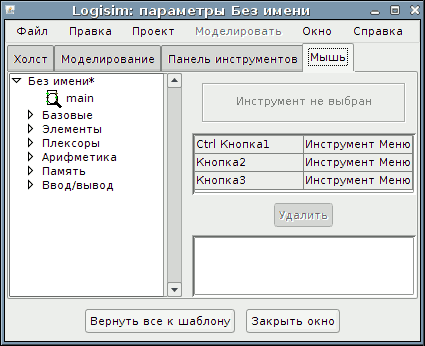
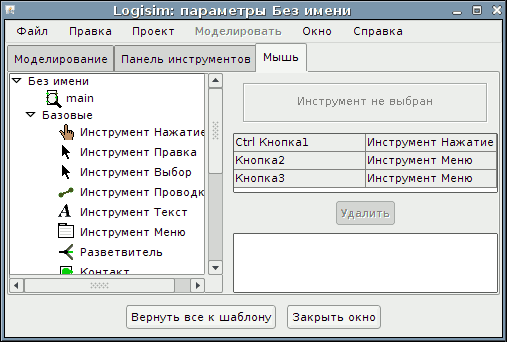
Ru doc: updated pages and screen shots for new preferences dialogs. Two old screen shots are deleted from En version too.

Changed region(s): [[0.0, 0.0, 1.0, 0.9942]]

diff --git a/doc/ru/html/guide/prefs/layout.html b/doc/ru/html/guide/prefs/layout.html
@@ -1,0 +1,37 @@
+<html>
+<head>
+    <meta http-equiv="content-type" content="text/html; charset=UTF-8">
+	<title>Вкладка Чертёж</title>
+</head>
+<body bgcolor="FFFFFF">
+
+<h1>Вкладка Чертёж</h1>
+
+<center><img src="../../../img-guide/prefs-layout.png"></center>
+
+<p>На этой вкладке находятся настройки, влияющие на поведение редактора чертежа схемы.</p>
+<ul>
+
+<li><p><b>Вид для печати:</b> определяет, показывать ли схемы на экране так же, как они выводятся через принтер. Как правило этот пункт отключен, и Logisim показывает схемы на экране с отображением текущего состояния схемы и выводит некоторые подсказки связанные с интерфейсом компонентов (самое заметное - он отрисовывает ножки элементов ИЛИ чтобы показать, где они должны присоединяться). А вид для печати не показывает состояние и эти подсказки по интерфейсу.</p></li> 
+ 
+<li><p><b>Показывать ореол:</b> определяет, нужно ли рисовать голубой овал вокруг компонента или инструмента, атрибуты которого в данный момент отображаются в таблице атрибутов.</p></li> 
+ 
+<li><p><b>Показывать подсказки для компонентов:</b> указывает, следует ли отображать "подсказки", которые будут появляться на время при наведении указателя мыши на компоненты, поддерживающие их. Например, если вы подержите указатель над контактом компонента подсхемы, то отобразится метка соответствующего контакта внутри подсхемы. Наведение курсора на один из концов разветвителя скажет вам, каким битам соответствует этот конец. Кроме того, все компоненты библиотек Плексоры, Арифметика и Память предоставляют информацию о своих входах и выходах через подсказки.</p></li> 
+
+<li><p><b>Сохранять соединения при перемещении:</b> указывает, должен ли Logisim добавлять новые провода, когда компоненты перемещены, чтобы сохранять их соединения. По умолчанию он включен - хотя он может быть временно отключен нажатием клавиши Shift при перемещении компонентов. Если этот флажок отключен, то по умолчанию при перемещении провода не будут добавляться - но вы можете включить это временно нажатием клавиши Shift при перемещении.</p></li>
+
+
+<li><p><b>Показывать призраки во время добавления:</b> когда включено, и когда выбран инструмент для добавления нового компонента, при движении мыши по холсту отрисовывается светло-серый контур компонента. Например, если вы выбираете инструмент Элемент И, и двигаете мышь по окну (без нажатия кнопки мыши), то серый контур элемента И отрисовывается там, где элемент И появится после нажатия мыши.</p></li>
+
+<li><p><b>После добавления компонента:</b> по умолчанию, после добавления каждого компонента, Logisim переключается на Инструмент Правка, позволяющий перемещать компоненты и добавлять провода. Этот выпадающий список позволяет вам изменить это поведение так, чтобы Logisim оставался на том же инструменте для добавления ещё одного такого же компонента, пока вы сами не выберите Инструмент Правка. (Это было поведение Logisim по умолчанию до Logisim 2.3.0. Хотя такое поведение более интуитивно, оно требует больше перемещений мыши для переключения между инструментами.)</p></li>
+
+<li><p><strong>Первое основание при взаимодействии с проводом:</strong> настраивает, как отображаются значения, когда на проводе щёлкнули Инструментом Нажатие. Щелчок на проводе временно отображает значение, пока пользователь не щёлкнет в другом месте схемы.</p></li>
+
+<li><p><strong>Второе основание при нажатии на провод:</strong> настраивает вторую часть отображаемого значения.</p></li>
+
+</ul>
+
+<p><strong>Далее:</strong> <em><a href="exp.html">Вкладка Экспериментальные</a></em>.</p>
+
+</body>
+</html>

diff --git a/doc/ru/html/guide/subcirc/using.html b/doc/ru/html/guide/subcirc/using.html
@@ -16,7 +16,7 @@
 <center><img src="../../../img-guide/subcirc-4-done.png"></center>
 <p>Наша схема для мультиплексора 4-в-1 использует три копии мультиплексора 2-в-1, каждая из которых отрисована в виде коробки с контактами вдоль краёв. Контакты на этой коробке соответствую входным и выходным контактам в схеме 2:1 MUX. Два контакта на западном крае коробки соответствуют двум контактам, направленным на восток в схеме 2:1 MUX; контакт на восточной стороне коробки соответствует контакту схемы 2:1 MUX, направленному на запад (который является выходным контактом); а контакт на южной стороне коробки соответствует контакту схемы 2:1 MUX, направленному на север. Порядок контактов на западной стороне коробки соответствует их порядку сверху вниз на чертеже подсхемы. (Если бы было несколько контактов на северной или южной стороне коробки, то их порядок соответствовал бы порядку слева направо в подсхеме.)</p>
 
-<p>Если контакты на чертеже подсхемы имеют метки, связанные с ними, то Logisim будет показывать эти метки в <strong>подсказке</strong> (то есть во временном текстовом поле), когда пользователь наведёт мышь на соответствующее место компонента подсхемы. (Если вы находите эти подсказки раздражающими, вы можете отключить их через <a href="../opts/canvas.html">вкладку Холст окна Параметры Проекта</a>.)</p>
+<p>Если контакты на чертеже подсхемы имеют метки, связанные с ними, то Logisim будет показывать эти метки в <strong>подсказке</strong> (то есть во временном текстовом поле), когда пользователь наведёт мышь на соответствующее место компонента подсхемы. (Если вы находите эти подсказки раздражающими, вы можете отключить их через <a href="../prefs/layout.html">вкладку Чертёж окна Настройки</a>.)</p>
 <center><img src="../../../img-guide/subcirc-4-tip.png"></center>
 <p>Некоторые другие компоненты тоже будут показывать эти подсказки: для некоторых контактов встроенных <a href="../../libs/mem/flipflops.html">триггеров</a>, например, проведение мышью над ними объясняет, что делает этот контакт.</p>
 

diff --git a/doc/ru/html/guide/prefs/window.html b/doc/ru/html/guide/prefs/window.html
@@ -1,0 +1,28 @@
+<html>
+<head>
+    <meta http-equiv="content-type" content="text/html; charset=UTF-8">
+	<title>Вкладка Окно</title>
+</head>
+<body bgcolor="FFFFFF">
+
+<h1>Вкладка Окно</h1>
+
+<center><img src="../../../img-guide/prefs-window.png"></center>
+
+<p>На этой вкладке находятся настройки, влияющие на внешний вид главного окна Logisim.</p>
+<ul>
+
+<li><p><b>Показать скорость тактов:</b> если выбрано, то когда такты включены, Logisim отображает скорость, с которой он выполняет такты. Скорость тактов измеряется как средняя за предыдущую 1000 тактов. (Выключение тактов или изменение максимальной тактовой частоты очистит эту историю.)</p>
+
+<p>Эта фактическая скорость тактов может быть намного меньше, чем вы бранная тактовая частота, потому что Logisim не может моделировать большие схем с очень большой скоростью. Например, максимальная скорость Logisim для достаточно большой схемы может быть 16 Гц; вы можете выбрать более высокую тактовую частоту, но фактическая скорость не будет превышать 16 Гц.</p></li>
+
+<li><p><b>Показать панель инструментов проекта:</b> когда выбрано, выше панели проводника доступна маленькая панель инструментов. Эта панель инструментов предоставляет пользователю простой доступ к добавлению, переименованию, переупорядочиванию и удалению схем из проекта, а также поддерживает переключение между редактированием чертежа схемы и её внешнего вида.</p></dd>
+
+</li><li><p><b>Расположение панели инструментов:</b> это выпадающее меню настраивает расположение панели инструментов в пределах окна. Панель инструментов может быть расположена вдоль любой из границ окна, обозначенных как север, юг, восток и запад. Она также может быть скрыта или расположена "посередине вниз" - то есть слева от холста, но справа от панели проводника и таблицы атрибутов.</p></li>
+
+</ul>
+
+<p><strong>Далее:</strong> <em><a href="layout.html">Вкладка Чертёж</a></em>.</p>
+
+</body>
+</html>

diff --git a/doc/ru/html/guide/menu/file.html b/doc/ru/html/guide/menu/file.html
@@ -15,6 +15,9 @@
 <dt><strong>Открыть...</strong></dt>
 <dd><p>Открывает существующий файл как проект в новом окне.</p></dd>
 
+<dt><strong>Открыть недавние</strong></dt>
+<dd><p>Открывает недавно открытый проект в новом окне без приглашения пользователя к навигации через диалог выбора файла.</p></dd>
+
 <dt><strong>Закрыть</strong></dt>
 <dd><p>Закрывает все окна, связанные с просматриваемым в данный момент проектом.</p></dd>
 
@@ -49,7 +52,7 @@
 
 <li><b>Масштабный коэффициент:</b> с помощью этого ползунка вы можете изменять масштаб изображений, в котором они сохраняются в файлы.</li>
 
-<li><b>Вид для печати:</b> следует ли использовать "<a href="../opts/canvas.html">вид для печати</a>" при экспорте схем.</li>
+<li><b>Вид для печати:</b> следует ли использовать "<a href="../prefs/layout.html">вид для печати</a>" при экспорте схем.</li>
 
 </ul>
 <p>После нажатия OK Logisim покажет диалоговое окно выбора файла. Если вы выбрали одну схему, выберите файл, в который изображение должно быть помещено. Если вы выбрали несколько схем, выберите директорию, куда файлы должны быть помещены; Logisim назовёт изображения, основываясь на названиях схем (<tt>main.png</tt> например).</p>
@@ -71,7 +74,7 @@
 
 <li><b>Повернуть для подгонки:</b> если установлено, то Logisim будет поворачивать каждую схему на 90 градусов, когда схема слишком велика, чтобы уместиться на странице, и её не нужно так же сильно масштабировать, когда она повёрнута на 90 градусов.</li>
 
-<li><b>Вид для печати:</b> следует ли использовать "<a href="../opts/canvas.html">вид для печати</a>" при печати схем.</li>
+<li><b>Вид для печати:</b> следует ли использовать "<a href="../prefs/layout.html">вид для печати</a>" при печати схем.</li>
 
 </ul>
 <p>После нажатия OK Logisim покажет диалоговое окно установок страницы до печати схем.</p>

diff --git a/doc/ru/html/guide/opts/index.html b/doc/ru/html/guide/opts/index.html
@@ -10,15 +10,15 @@
 <p>Logisim поддерживает две категории параметров конфигурации: <em>настройки приложения</em> и <em>параметры проекта</em>. Настройки приложения охватывают все открытые проекты, а параметры проекта специфичны для одного определённого проекта. В этом разделе рассматриваются параметры проекта; <a href="../prefs/">настройки приложения</a> описаны в другом разделе.</p>
 
 <p>Вы можете просматривать и редактировать параметры проекта через пункт Параметры... из меню Проект. Это вызовет окно Параметры с четырьмя вкладками.</p.
-><center><img src="../../../img-guide/opts-canvas.png"></center>
+><center><img src="../../../img-guide/opts-simulate.png"></center>
 <p>Мы будем обсуждать каждую из этих вкладок отдельно.</p>
 <blockquote>
-	<a href="canvas.html">Вкладка Холст</a> <br><a href="simulate.html">Вкладка Моделирование</a> <br><a href="toolbar.html">Вкладка Панель инструментов</a> <br><a href="mouse.html">Вкладка Мышь</a>
+	<a href="simulate.html">Вкладка Моделирование</a> <br><a href="toolbar.html">Вкладка Панель инструментов</a> <br><a href="mouse.html">Вкладка Мышь</a>
 </blockquote>
 
 <p>В нижней части окна есть кнопка Вернуть все к шаблону. При её нажатии все параметры и атрибуты инструментов заменяются на настройки из текущего шаблона (выбранного в <a href="../prefs/">настройках приложения</a>).</p>
 
-<p><strong>Далее:</strong> <a href="canvas.html">Вкладка Холст</a>.</p>
+<p><strong>Далее:</strong> <a href="simulate.html">Вкладка Моделирование</a>.</p>
 
 </body>
 </html>

diff --git a/doc/ru/html/guide/prefs/exp.html b/doc/ru/html/guide/prefs/exp.html
@@ -13,10 +13,6 @@
 
 <ul>
 
-<li><p><b>Показать скорость тактов:</b> если выбрано, то когда такты включены, Logisim отображает скорость, с которой он выполняет такты. Скорость тактов измеряется как средняя за предыдущую 1000 тактов. (Выключение тактов или изменение максимальной тактовой частоты очистит эту историю.)</p>
-
-<p>Эта фактическая скорость тактов может быть намного меньше, чем вы бранная тактовая частота, потому что Logisim не может моделировать большие схем с очень большой скоростью. Например, максимальная скорость Logisim для достаточно большой схемы может быть 16 Гц; вы можете выбрать более высокую тактовую частоту, но фактическая скорость не будет превышать 16 Гц.</p></li>
-
 <li><b>Ускорение графики:</b> один из пользователей Logisim отметил, что добавление <tt>-Dsun.java2d.d3d=True</tt> к командной строке кажется улучшает производительность графики Logisim, заставляя его использовать аппаратное ускорение графики. Этот выпадающий список пытается настроить Logisim так, чтобы эта возможность была включена; сообщения о том, влияет ли этот список на производительность, будут приветствоваться. Это не будет иметь никакого эффекта, пока Logisim не будет перезапущен.</p></li>
 
 </ul>

diff --git a/doc/ru/html/libs/base/wiring.html b/doc/ru/html/libs/base/wiring.html
@@ -50,7 +50,7 @@ href="../gates/controlled.html">Управляемый буфер</a>), Logisim 
 
 <p>Когда вы щёлкаете на существующем сегменте провода, используя Инструмент Нажатие, Logisim показывает текущее значение, передаваемое через этот провод. На практике такое поведение полезно для многобитных проводов, чёрный цвет которых не предоставляет никакой информации о том, какое значение передаёт провод.</p>
 
-<p>Для многобитных значений вы можете настроить, как отображается значение (в двоичном, десятичном или шестнадцатеричном виде, например), используя <a href="../../guide/opts/canvas.html">вкладку Холст</a> диалогового окна Параметры проекта.
+<p>Для многобитных значений вы можете настроить, как отображается значение (в двоичном, десятичном или шестнадцатеричном виде, например), используя <a href="../../guide/prefs/layout.html">вкладку Чертёж</a> диалогового окна Настройки Logisim.
 
 <p><a href="../index.html">Назад к <em>Справке по библиотеке</em></a></p>
 

diff --git a/doc/ru/html/guide/prefs/index.html b/doc/ru/html/guide/prefs/index.html
@@ -11,7 +11,7 @@
 
 <p>Вы можете просматривать и редактировать настройки приложения через пункт Настройки... из меню Файл (или из меню Logisim на Mac OS); появится окно с несколькими вкладками. Мы будем обсуждать эти вкладки по отдельности, а потом мы посмотрим, как настройки могут быть заданы с помощью командной строки.</p>
 <blockquote>
-	<a href="template.html">Вкладка Шаблон</a> <br><a href="tools.html">Вкладка Инструменты</a> <br><a href="intl.html">Вкладка Интернациональные</a> <br><a href="exp.html">Вкладка Экспериментальные</a> <br><a href="cmdline.html">Командная строка</a>
+	<a href="template.html">Вкладка Шаблон</a> <br><a href="intl.html">Вкладка Интернациональные</a> <br><a href="window.html">Вкладка Окно</a> <br><a href="layout.html">Вкладка Чертёж</a> <br><a href="exp.html">Вкладка Экспериментальные</a> <br><a href="cmdline.html">Командная строка</a>
 </blockquote>
 
 <p><strong>Далее:</strong> <a href="template.html">Вкладка Шаблон</a>.</p>

diff --git a/doc/ru/html/guide/menu/project.html b/doc/ru/html/guide/menu/project.html
@@ -56,9 +56,6 @@ href="../attrlib/explore.html">в другом месте <em>Руководст
 
 <p>Если вы используете схемы из загруженной библиотеки Logisim, то эти компоненты считаются <q>чёрными ящиками</q>: содержимое схем библиотеки не включается в количество уникальных и подсчитанных рекурсивно.</p></dd>
 
-<dt><strong>Показать панель инструментов проекта</strong></dt>
-<dd><p>Когда этот пункт меню выбран, небольшая панель будет отображена над панелью проводника, предоставляя пользователю простой доступ к добавлению, переименованию, переупорядочиванию и удалению схем из проекта. Панель инструментов также поддерживает переключение между редактированием чертежа схемы и её внешнего вида.</p></dd>
-
 <dt><strong>Параметры...</strong></dt>
 <dd><p>Открывает <a href="../opts/index.html">окно Параметры проекта</a>.</p></dd>
 

diff --git a/doc/ru/html/guide/opts/toolbar.html b/doc/ru/html/guide/opts/toolbar.html
@@ -22,8 +22,6 @@
 
 <li><p><strong>Удалить</strong> удаляет выбранный элемент с панели инструментов.</p></li>
 
-<li><p><strong>Расположение:</strong> настраивает расположение панели инструментов в пределах окна. Панель инструментов может быть расположена вдоль любой из границ окна, обозначенных как север, юг, восток и запад. Она также может быть скрыта или расположена "посередине вниз" - то есть слева от холста, но справа от панели проводника и таблицы атрибутов.</p></li>
-
 </ul>
 <p>Атрибуты, связанные с инструментами, не отображаются в этом окне, вместо этого вы можете просматривать и редактировать их в главном окне рисования программы.</p>
 

diff --git a/doc/ru/html/contents.html b/doc/ru/html/contents.html
@@ -60,14 +60,14 @@
   </ul></li>
   <li><a id="prefs">Настройки приложения</a><ul>
   	<li><a id="prefs_template">Вкладка Шаблон</a></li>
-  	<li><a id="prefs_tools">Вкладка Инструменты</a></li>
   	<li><a id="prefs_intl">Вкладка Интернациональные</a></li>
+  	<li><a id="prefs_window">Вкладка Окно</a></li>
+  	<li><a id="prefs_layout">Вкладка Чертёж</a></li>
   	<li><a id="prefs_exp">Вкладка Экспериментальные</a></li>
   	<li><a id="prefs_cmdline">Командная строка</a></li>
   </ul></li>
   <li><a id="opts">Параметры проекта</a>
-  	</li><li><a id="opts_canvas">Вкладка Холст</a></li>
-  	<li><a id="opts_simulate">Вкладка Моделирование</a></li>
+  	</li><li><a id="opts_simulate">Вкладка Моделирование</a></li>
   	<li><a id="opts_toolbar">Вкладка Панель инструментов</a></li>
   	<li><a id="opts_mouse">Вкладка Мышь</a></li>
   </ul></li>

diff --git a/doc/ru/html/guide/prefs/intl.html b/doc/ru/html/guide/prefs/intl.html
@@ -9,7 +9,7 @@
 
 <center><img src="../../../img-guide/prefs-intl.png"></center>
 
-<p>Эти настройки позволяют Logisim использоваться во многих странах. Вкладка включает три опции.</p>
+<p>Эта вкладка позволяет настроить Logisim в соответствии с региональными предпочтениями.</p>
 <ul>
 
 <li><p><b>Форма элементов:</b> Logisim поддерживает три стандарта для отрисовки логических элементов: <em>фигурные</em> элементы, <em>прямоугольные</em> элементы, и элементы <em>DIN 40700</em>. В следующей таблице приведены различия.</p>
@@ -49,7 +49,7 @@
 
 </ul>
 
-<p><strong>Далее:</strong> <em><a href="exp.html">Вкладка Экспериментальные</a></em>.</p>
+<p><strong>Далее:</strong> <em><a href="window.html">Вкладка Окно</a></em>.</p>
 
 </body>
 </html>
